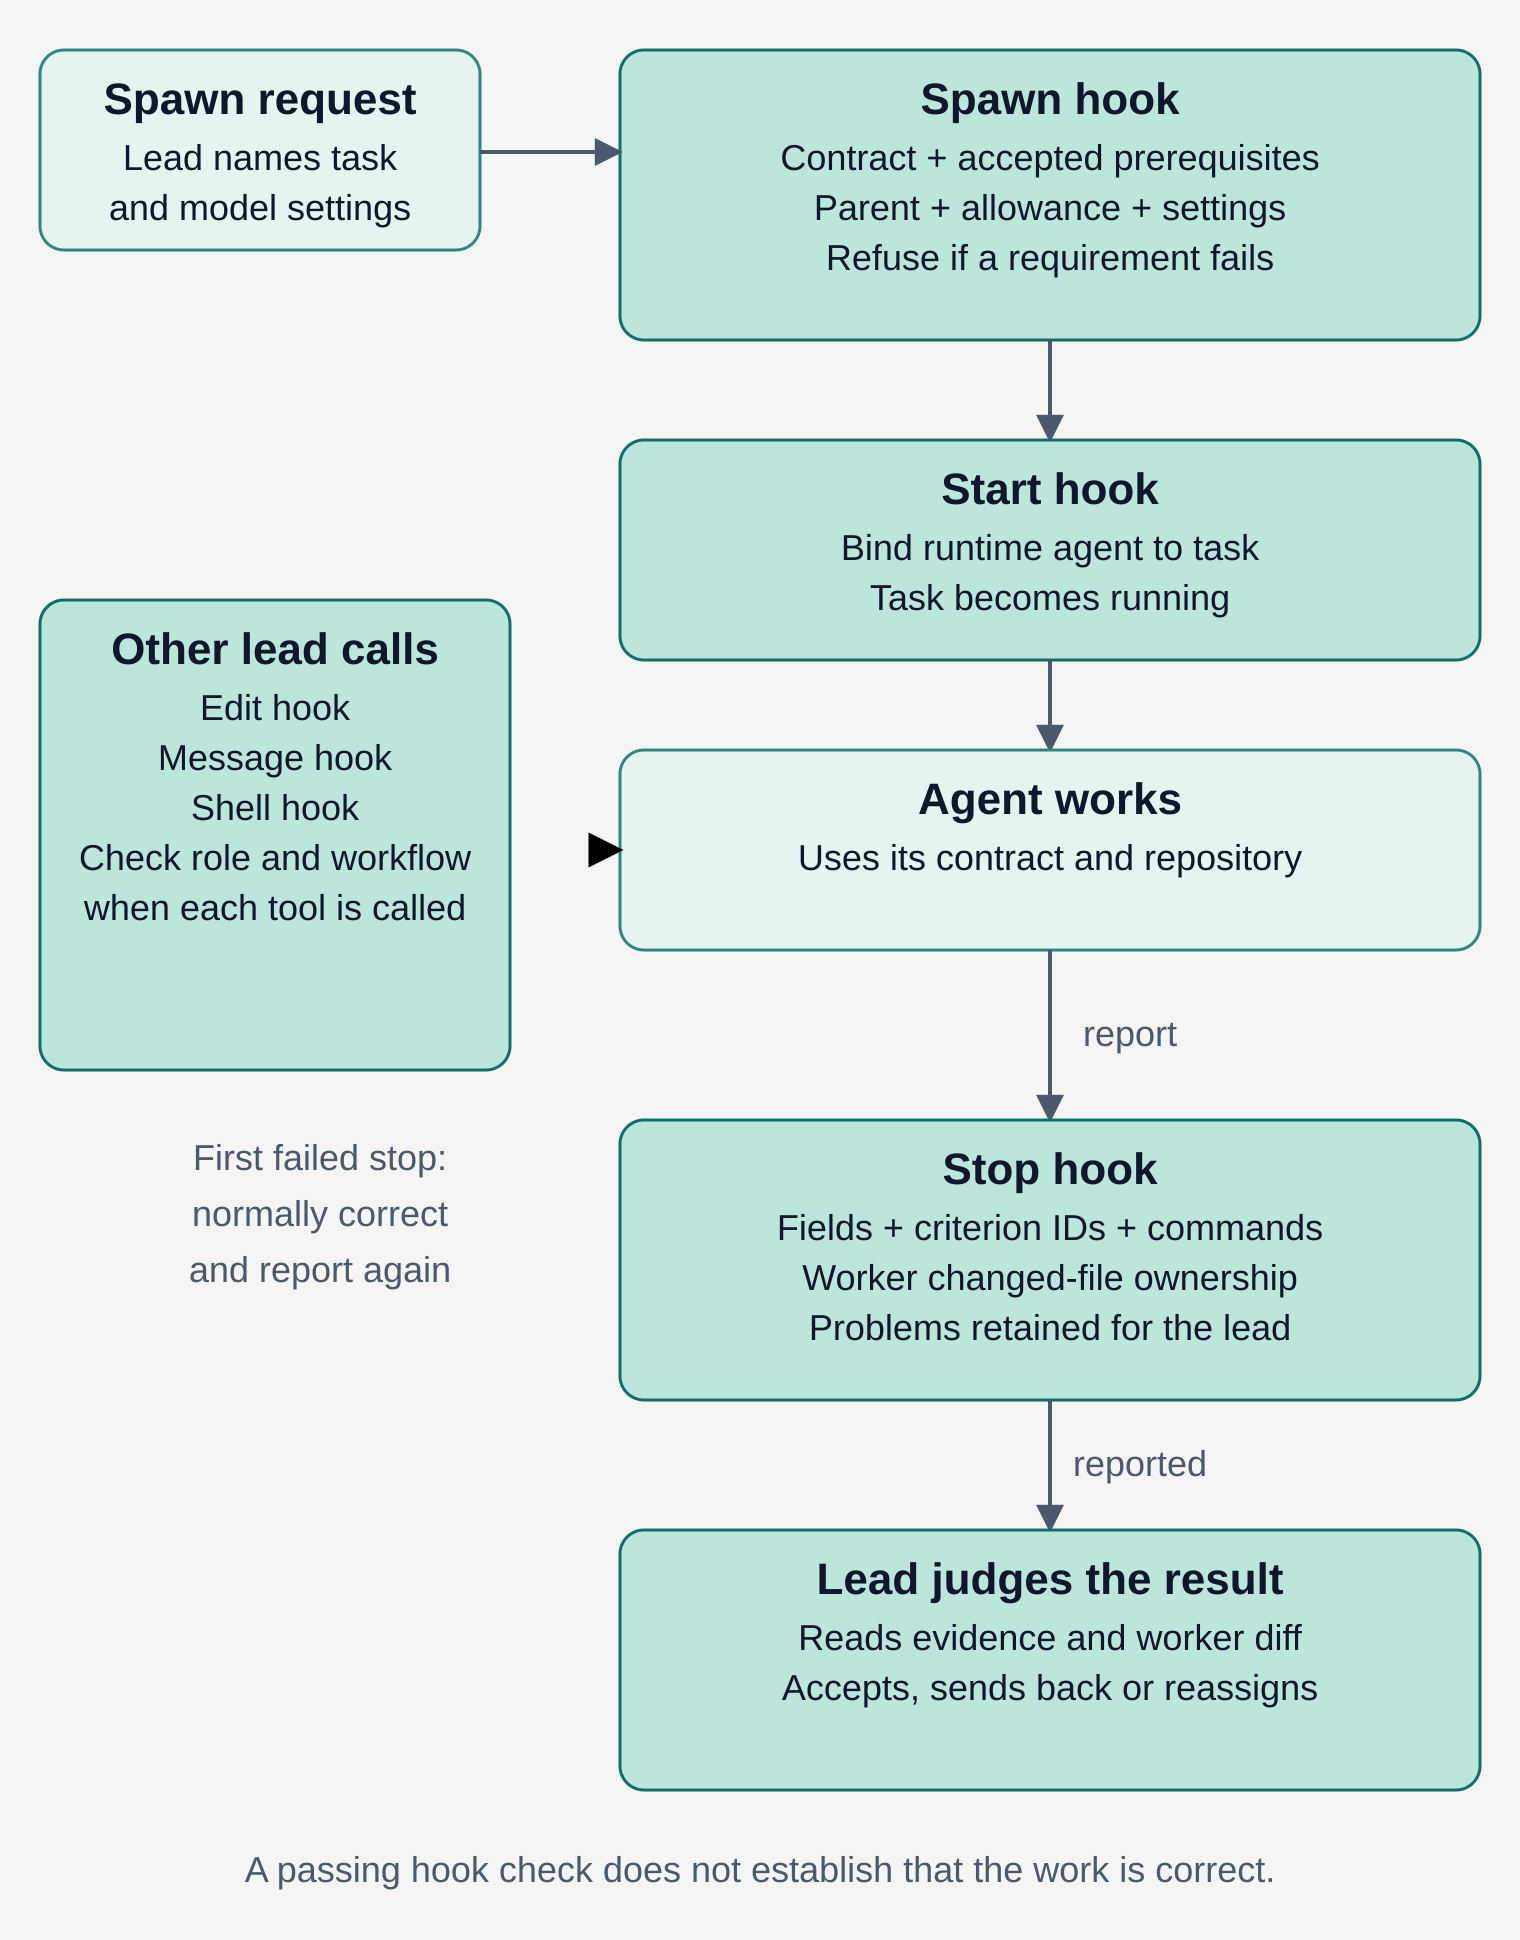
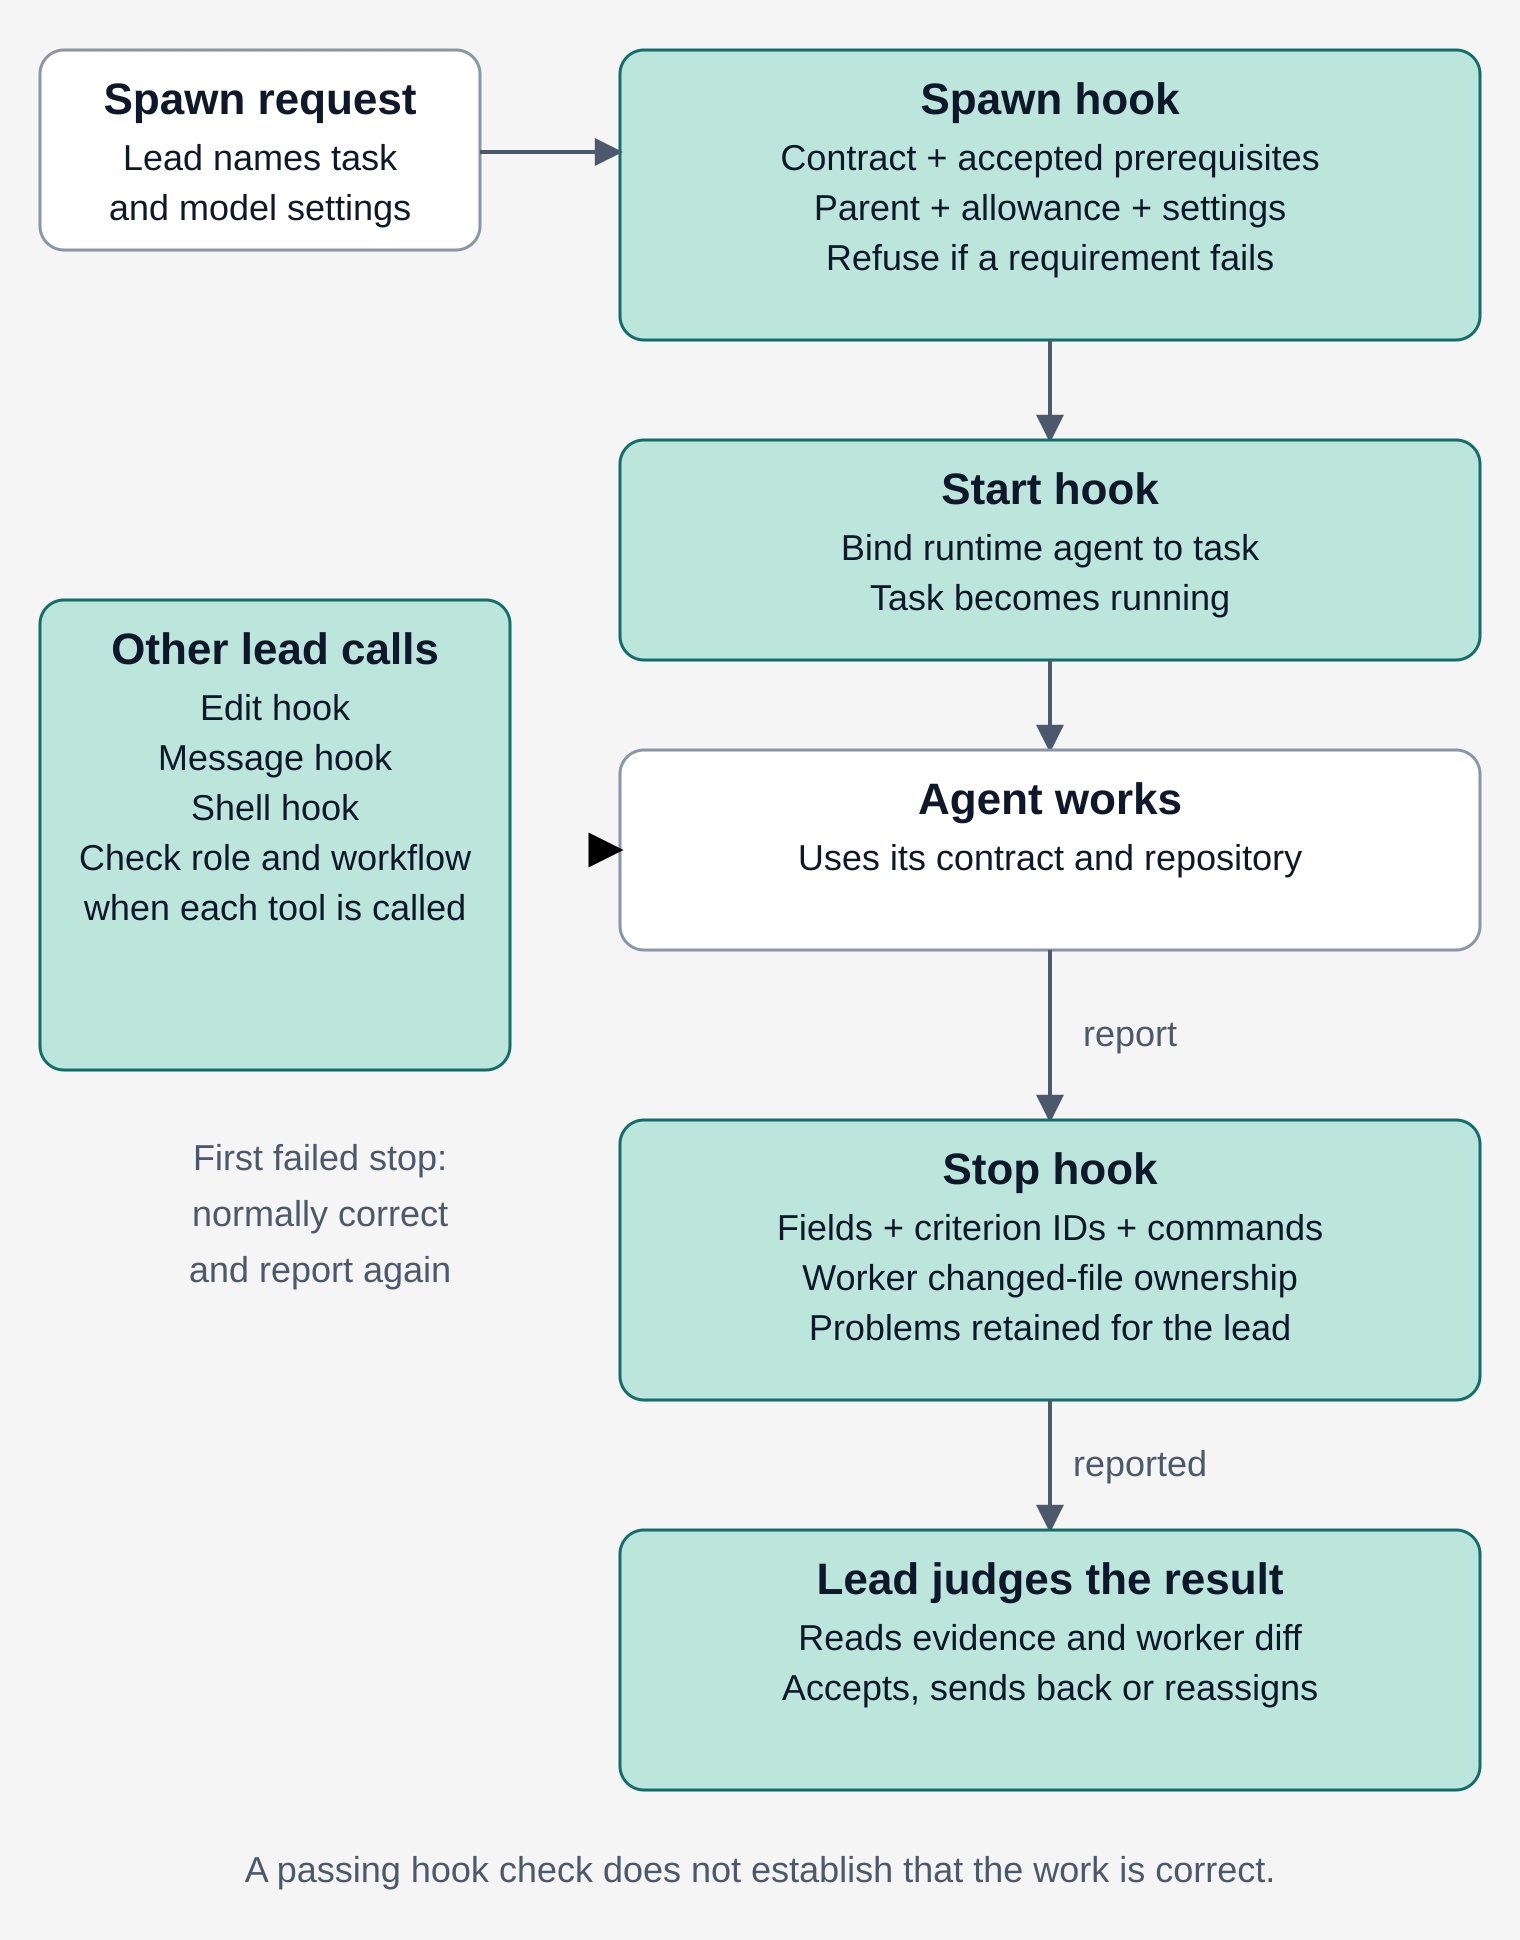
style: use selective teal in lead-team diagrams

Changed region(s): [[0.402, 0.3711, 0.9895, 0.4948], [0.0, 0.0, 0.3401, 0.1546]]

diff --git a/styles/diagrams.css b/styles/diagrams.css
@@ -252,13 +252,13 @@ is supplied separately by figures.css. */
 		fill: var(--color-accent);
 	}
 
-	/* Teal distinguishes roles and machinery; states follow the observer. */
+	/* Selected nodes use teal; states follow the observer. */
 	.prose .diagram-lead-team {
-		--color-team-surface: light-dark(#e5f4f0, #173532);
+		--color-team-surface: light-dark(#ffffff, #181c25);
 		--color-team-panel: light-dark(#f8fafc, #181c25);
 		--color-team-emphasis: light-dark(#bce5dc, #19504a);
-		--color-team-border: light-dark(#76a49a, #55998d);
-		--color-team-edge: light-dark(#31877e, #72d9cd);
+		--color-team-border: light-dark(#a2adb9, #65748a);
+		--color-team-edge: light-dark(#8a96a7, #68788f);
 		--color-team-accent: light-dark(#126e6b, #6ce1d5);
 		--color-team-text: light-dark(#0f172a, #e6e9f0);
 		--color-team-muted: light-dark(#4c596c, #b6c3d6);
